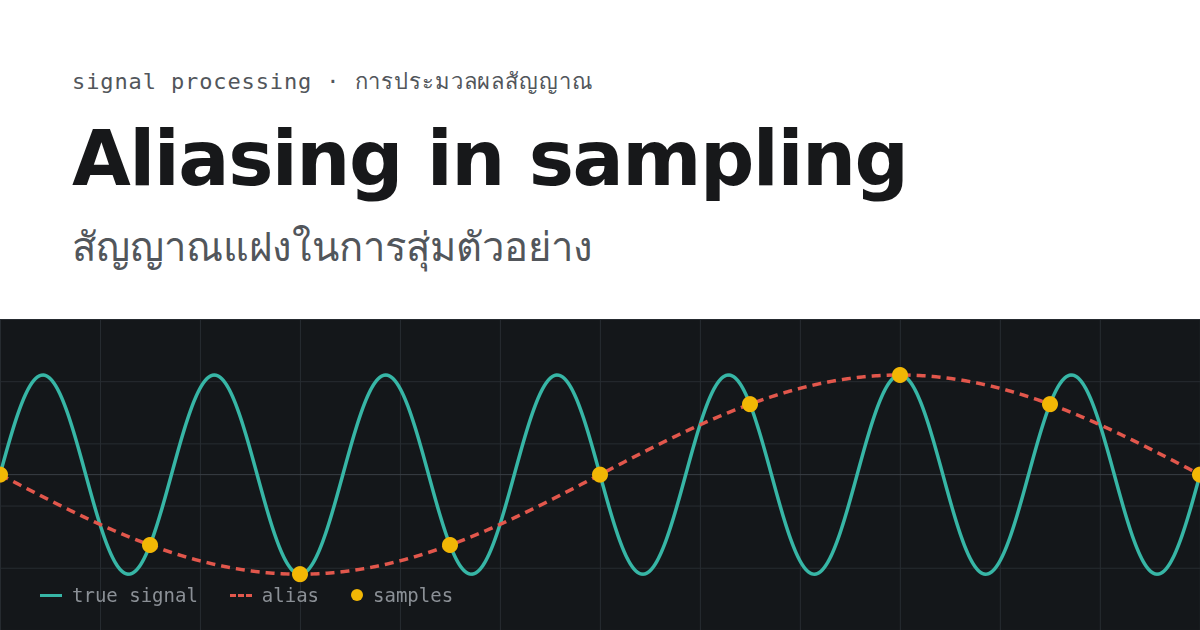
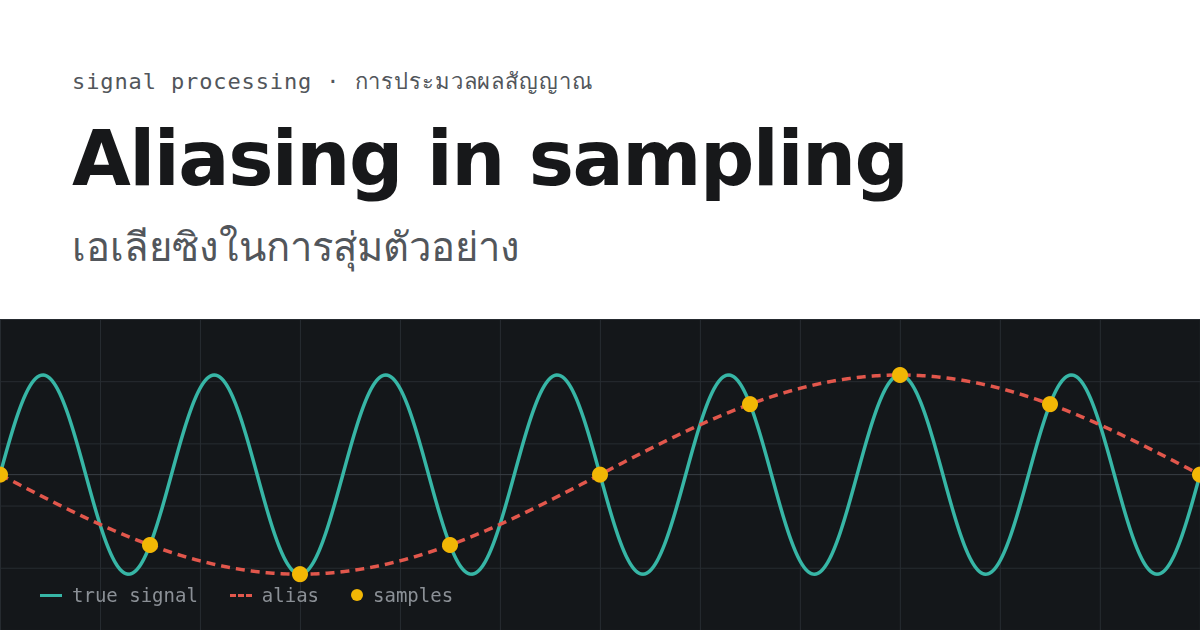
Use transliterated Thai for terms Thai sources transliterate
The Thai strings coined "สัญญาณแฝง" for aliasing, which is not what Thai
technical writing actually uses. Checked against Thai DSP course material,
audio-engineering articles and the Longdo computer-terms dictionary, and
switched the terms those sources transliterate:

- aliasing        สัญญาณแฝง          -> เอเลียซิง
- samples         จุดตัวอย่าง          -> แซมเปิล
- anti-aliasing   วงจรกรองป้องกัน...   -> ฟิลเตอร์แอนติเอเลียซิง
- frame rate      อัตราเฟรม           -> เฟรมเรต
- DAC                                 -> spelled out plus the acronym

Terms with a settled native Thai form are left translated: การสุ่มตัวอย่าง
(sampling) and ความถี่ไนควิสต์ (Nyquist frequency) are standard in the same
sources. The English word now follows in parentheses on first mention, which
also keeps the page findable under either spelling.

og-image.png is regenerated for the new Thai subtitle, and README documents
the terminology split.

Claude-Session: https://claude.ai/code/session_01DZ3y4T5WjB93om51SfraMh

Changed region(s): [[0.0617, 0.3619, 0.4933, 0.4222]]

diff --git a/i18n.js b/i18n.js
@@ -45,11 +45,11 @@
       'footer.text': 'Static page — sampling and aliasing logic runs entirely in the browser.'
     },
     th: {
-      'page.title': 'สัญญาณแฝง (Aliasing) ในการสุ่มตัวอย่าง — เดโมทฤษฎีบทไนควิสต์',
-      'page.description': 'เดโมแบบโต้ตอบของทฤษฎีบทการสุ่มตัวอย่างและปรากฏการณ์สัญญาณแฝง (aliasing) ปรับความถี่สัญญาณและอัตราการสุ่มตัวอย่าง เพื่อดูว่าคลื่นพับกลับกลายเป็นความถี่ต่ำที่ผิดไปจากความจริงเมื่อใด',
+      'page.title': 'เอเลียซิง (Aliasing) ในการสุ่มตัวอย่าง — เดโมทฤษฎีบทไนควิสต์',
+      'page.description': 'เดโมแบบโต้ตอบของทฤษฎีบทการสุ่มตัวอย่างและปรากฏการณ์เอเลียซิง (aliasing) ปรับความถี่สัญญาณและอัตราการสุ่มตัวอย่าง เพื่อดูว่าคลื่นพับกลับกลายเป็นความถี่ต่ำที่ผิดไปจากความจริงเมื่อใด',
       'hero.kicker': 'การประมวลผลสัญญาณ',
-      'hero.title': 'สัญญาณแฝงในการสุ่มตัวอย่าง',
-      'hero.lede': 'เมื่ออัตราการสุ่มตัวอย่างต่ำกว่าสองเท่าของความถี่สัญญาณ &mdash; ซึ่งก็คืออัตราไนควิสต์ &mdash; จุดตัวอย่างที่ได้จะแยกไม่ออกจากจุดตัวอย่างของคลื่นอีกลูกหนึ่งที่มีความถี่ต่ำกว่า หน้านี้สาธิตปรากฏการณ์ดังกล่าวโดยตรง',
+      'hero.title': 'เอเลียซิงในการสุ่มตัวอย่าง',
+      'hero.lede': 'เมื่ออัตราการสุ่มตัวอย่างต่ำกว่าสองเท่าของความถี่สัญญาณ &mdash; ซึ่งก็คืออัตราไนควิสต์ &mdash; แซมเปิลที่ได้จะแยกไม่ออกจากแซมเปิลของคลื่นอีกลูกหนึ่งที่มีความถี่ต่ำกว่า หน้านี้สาธิตปรากฏการณ์ดังกล่าวโดยตรง',
       'lang.group': 'ภาษา',
       'lang.en': 'EN',
       'lang.th': 'ไทย',
@@ -60,27 +60,27 @@
       'control.sampleRate': 'อัตราการสุ่มตัวอย่าง',
       'scope.label': 'โดเมนเวลา',
       'status.nyquist': 'ความถี่ไนควิสต์',
-      'status.ok': 'ไม่เกิดสัญญาณแฝง — สร้างสัญญาณกลับคืนได้ถูกต้อง',
-      'status.aliased': 'เกิดสัญญาณแฝง — ปรากฏเป็น {alias} Hz แทนที่จะเป็น {signal} Hz',
+      'status.ok': 'ไม่เกิดเอเลียซิง — สร้างสัญญาณกลับคืนได้ถูกต้อง',
+      'status.aliased': 'เกิดเอเลียซิง — ปรากฏเป็น {alias} Hz แทนที่จะเป็น {signal} Hz',
       'legend.signal': 'สัญญาณจริง',
-      'legend.samples': 'จุดตัวอย่าง',
+      'legend.samples': 'แซมเปิล',
       'legend.alias': 'สัญญาณที่รับรู้',
       'canvas.aria.state': 'ภาพออสซิลโลสโคป: สัญญาณ {signal} เฮิรตซ์ สุ่มตัวอย่างที่ {sample} เฮิรตซ์ {verdict}',
-      'canvas.aria.aliased': 'เกิดสัญญาณแฝงที่ {alias} เฮิรตซ์',
-      'canvas.aria.clean': 'ไม่เกิดสัญญาณแฝง',
+      'canvas.aria.aliased': 'เกิดเอเลียซิงที่ {alias} เฮิรตซ์',
+      'canvas.aria.clean': 'ไม่เกิดเอเลียซิง',
       'ref.nyquist.title': 'เงื่อนไขไนควิสต์',
-      'ref.nyquist.p1': 'สำหรับสัญญาณที่จำกัดแถบความถี่ไว้ที่ความถี่สูงสุด <span class="mono">f_max</span> การสร้างสัญญาณกลับคืนจากจุดตัวอย่างได้อย่างถูกต้องต้องใช้อัตราการสุ่มตัวอย่าง <span class="mono">f_s &gt; 2&middot;f_max</span> ครึ่งหนึ่งของอัตราการสุ่มตัวอย่าง คือ <span class="mono">f_s / 2</span> เรียกว่าความถี่ไนควิสต์ ซึ่งเป็นความถี่สูงสุดที่แทนค่าได้โดยไม่กำกวม',
+      'ref.nyquist.p1': 'สำหรับสัญญาณที่จำกัดแถบความถี่ไว้ที่ความถี่สูงสุด <span class="mono">f_max</span> การสร้างสัญญาณกลับคืนจากแซมเปิลได้อย่างถูกต้องต้องใช้อัตราการสุ่มตัวอย่าง <span class="mono">f_s &gt; 2&middot;f_max</span> ครึ่งหนึ่งของอัตราการสุ่มตัวอย่าง คือ <span class="mono">f_s / 2</span> เรียกว่าความถี่ไนควิสต์ ซึ่งเป็นความถี่สูงสุดที่แทนค่าได้โดยไม่กำกวม',
       'ref.nyquist.p2': 'องค์ประกอบที่มีความถี่สูงกว่าความถี่ไนควิสต์จะไม่หายไป &mdash; แต่จะปรากฏกลับมาที่ความถี่ต่ำกว่าโดยพับกลับเข้ามา สำหรับสัญญาณความถี่ <span class="mono">f</span> ที่สุ่มตัวอย่างด้วยอัตรา <span class="mono">f_s</span>:',
       'formula.if': 'เมื่อ r ≤ f_s / 2',
       'formula.otherwise': 'กรณีอื่น',
       'ref.examples.title': 'พบได้ที่ไหนบ้าง',
       'ex.audio.term': 'เสียง',
-      'ex.audio.body': 'ตัวแปลงสัญญาณดิจิทัลเป็นแอนะล็อกสุ่มตัวอย่างที่อัตราสูงกว่าย่านที่หูได้ยิน แต่ความถี่ที่สูงเกินขีดจำกัดไนควิสต์จะพับกลับลงมาเป็นสิ่งแปลกปลอมที่ได้ยินได้ หากไม่ถูกกรองออกก่อนด้วยวงจรกรองป้องกันสัญญาณแฝงแบบแอนะล็อก',
+      'ex.audio.body': 'ตัวแปลงดิจิทัลเป็นแอนะล็อก (DAC) สุ่มตัวอย่างที่อัตราสูงกว่าย่านที่หูได้ยิน แต่ความถี่ที่สูงเกินขีดจำกัดไนควิสต์จะพับกลับลงมาเป็นสิ่งแปลกปลอมที่ได้ยินได้ หากไม่ถูกกรองออกก่อนด้วยฟิลเตอร์แอนติเอเลียซิง (anti-aliasing filter) แบบแอนะล็อก',
       'ex.video.term': 'วิดีโอ',
-      'ex.video.body': 'ปรากฏการณ์ล้อเกวียน: ซี่ล้อดูเหมือนหมุนช้าลง หยุดนิ่ง หรือหมุนกลับทาง เมื่อความถี่การหมุนเข้าใกล้อัตราเฟรมของภาพ',
+      'ex.video.body': 'ปรากฏการณ์ล้อเกวียน: ซี่ล้อดูเหมือนหมุนช้าลง หยุดนิ่ง หรือหมุนกลับทาง เมื่อความถี่การหมุนเข้าใกล้เฟรมเรตของภาพ',
       'ex.imaging.term': 'ภาพถ่าย',
       'ex.imaging.body': 'เซนเซอร์กล้องที่สุ่มตัวอย่างลวดลายซ้ำ ๆ ที่ละเอียด เช่น เนื้อผ้าทอ อาจทำให้เกิดลายแทรกสอดมัวเร (moiré) ซึ่งไม่มีอยู่จริงในฉากต้นฉบับ',
-      'footer.text': 'หน้าเว็บแบบสแตติก — การคำนวณการสุ่มตัวอย่างและสัญญาณแฝงทั้งหมดทำงานในเบราว์เซอร์'
+      'footer.text': 'หน้าเว็บแบบสแตติก — การคำนวณการสุ่มตัวอย่างและเอเลียซิงทั้งหมดทำงานในเบราว์เซอร์'
     }
   };
 

diff --git a/README.md b/README.md
@@ -23,6 +23,10 @@ To add or change wording, edit the `strings` table in `i18n.js`. Keys are wired 
 
 Strings rendered from JavaScript (the status line and the canvas description) go through `I18N.t(key, params)`, with `{placeholder}` substitution.
 
+### Thai terminology
+
+Where Thai technical writing transliterates a term rather than translating it, the Thai strings follow that usage: `เอเลียซิง` (aliasing), `แซมเปิล` (samples), `ฟิลเตอร์แอนติเอเลียซิง` (anti-aliasing filter), `เฟรมเรต` (frame rate), alongside the already-established `ไนควิสต์`, `ออสซิลโลสโคป`, `แอนะล็อก`, and `มัวเร`. Terms that have a settled native Thai form — `การสุ่มตัวอย่าง` (sampling), `ความถี่ไนควิสต์` (Nyquist frequency) — are kept translated. The English word is carried in parentheses on first mention, which also keeps the page findable by searchers using either form.
+
 ## SEO
 
 - Canonical URL plus `hreflang` alternates for `en`, `th`, and `x-default`
